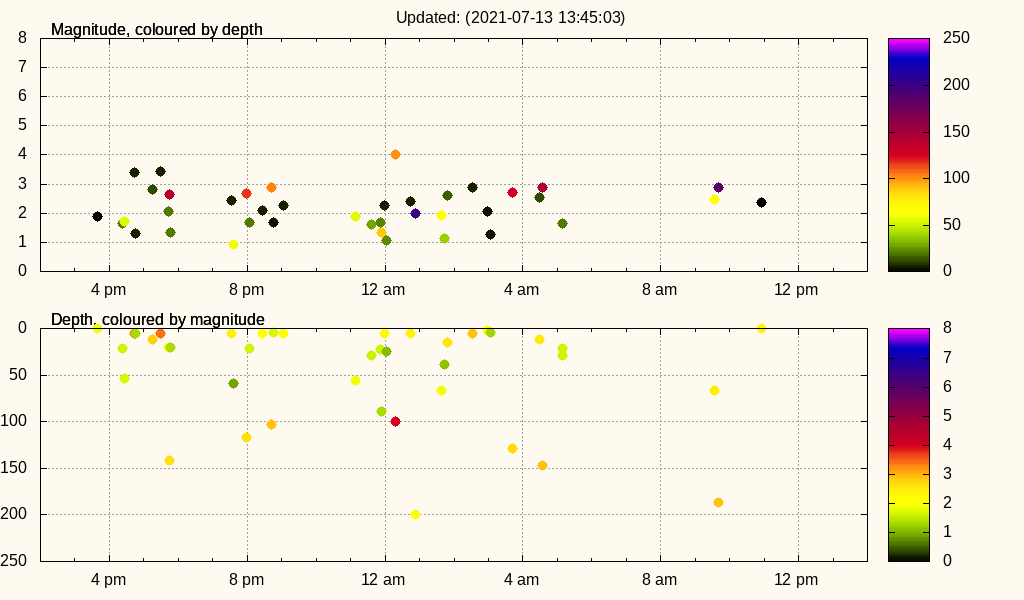
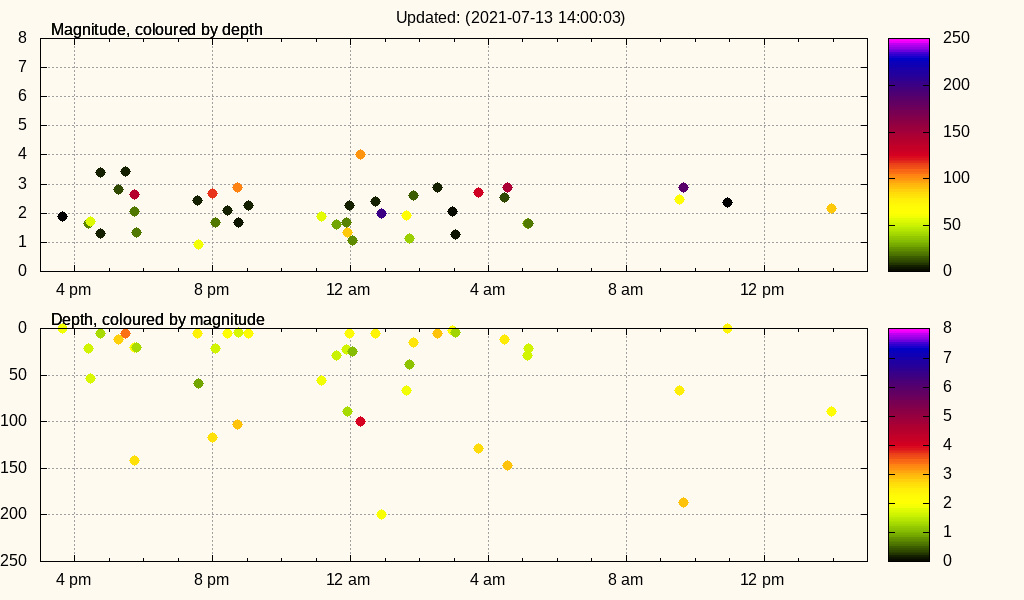
Snapshot

diff --git a/index.html b/index.html
@@ -65,12 +65,20 @@ td.depth { text-align: right; }
 </tr>
 <tr>
 	 <td align="left">&nbsp;</td> 
-	 <td align="left">01:45:02 pm</td> 
-	 <td align="right">2:48:59</td> 
+	 <td align="left">02:00:02 pm</td> 
+	 <td align="right">1:58</td> 
 	 <td colspan="3">&nbsp;</td> 
 </tr>
 <tr>
 	 <td align="left">2021-07-13</td> 
+	 <td align="left">01:58:04 pm</td> 
+	 <td align="right">3:02:01</td> 
+	 <td class="magnitude05">2.17</td> 
+	 <td class="depth">89.38</td> 
+	 <td align="right"><a href="http://www.geonet.org.nz/quakes/region/newzealand/2021p521842" title="2021p521842" target="_blank" class="publicid">5 km west of Hawera</a></td> 
+</tr>
+<tr>
+	 <td align="left">&nbsp;</td> 
 	 <td align="left">10:56:03 am</td> 
 	 <td align="right">1:16:11</td> 
 	 <td class="magnitude05">2.37</td> 
